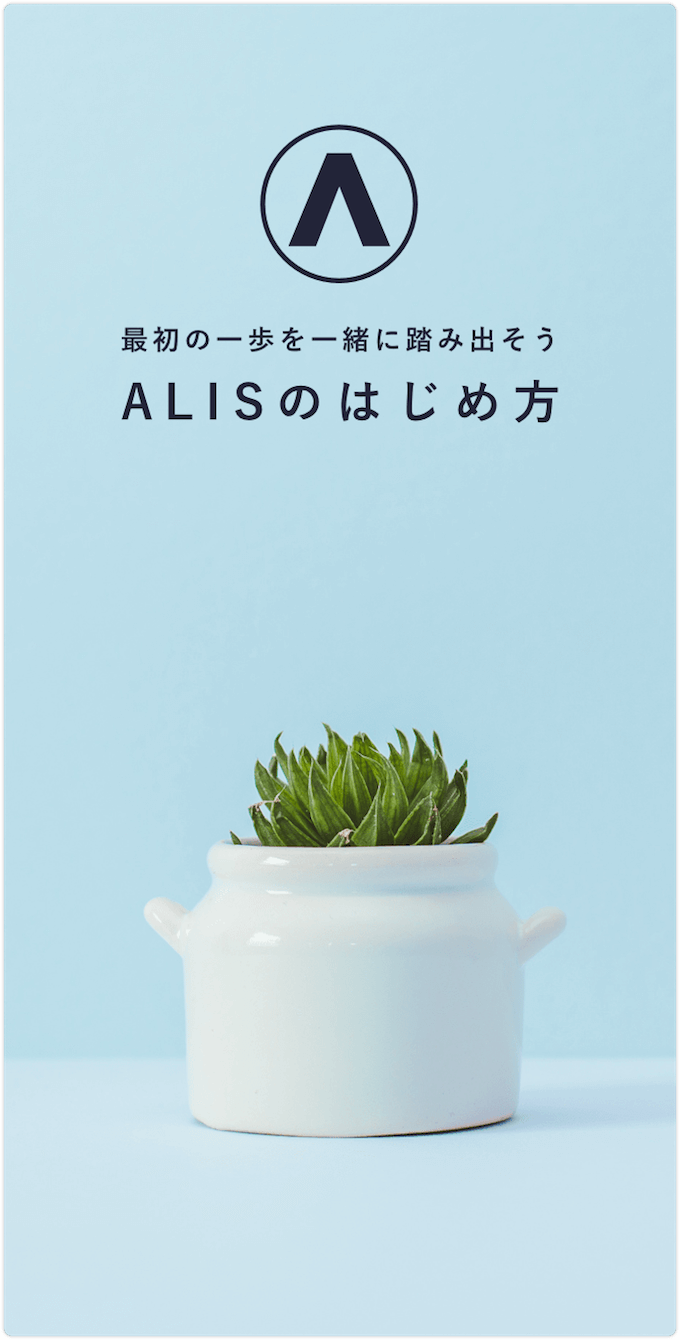
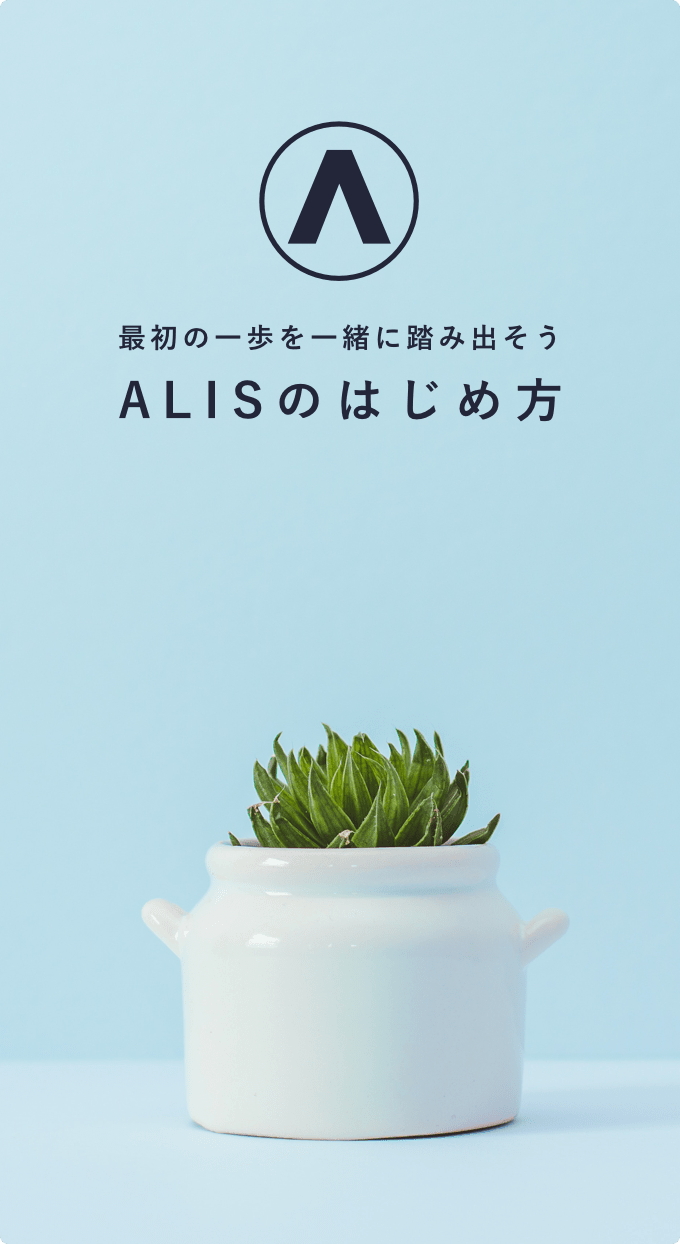
Update design of RecommendedArticleCard for paid article

diff --git a/app/components/organisms/RecommendedArticleCard.vue b/app/components/organisms/RecommendedArticleCard.vue
@@ -3,12 +3,6 @@
     class="recommended-article-card"
     :to="`/${article.user_id}/articles/${article.article_id}`"
   >
-    <span class="topic">
-      {{ topicDisplayName }}
-    </span>
-    <h2 class="title">
-      {{ decodedTitle }}
-    </h2>
     <div class="eye-catch-image-box">
       <img
         v-if="article.eye_catch_url === null || article.eye_catch_url === undefined"
@@ -17,14 +11,17 @@
       >
       <img v-else class="eye-catch-image" :src="article.eye_catch_url">
     </div>
+    <span class="topic">
+      {{ topicDisplayName }}
+    </span>
+    <span v-if="!isPaidArticle" class="paid-article">
+      有料
+    </span>
+    <h2 class="title">
+      {{ decodedTitle }}
+    </h2>
     <no-ssr>
       <nuxt-link :to="`/users/${article.user_id}`" class="article-data-box">
-        <img
-          v-if="article.userInfo.icon_image_url !== undefined"
-          class="profile-icon"
-          :src="article.userInfo.icon_image_url"
-        >
-        <img v-else class="profile-icon" src="~assets/images/pc/common/icon_user_noimg.png">
         <span class="username">
           {{ decodedUsername }}
         </span>
@@ -77,6 +74,9 @@ export default {
       const alisToken = new BigNumber(stringTokenAmount).div(formatNumber)
       return alisToken > 999 ? (alisToken / 1000).toFixed(2, 1) + 'k' : alisToken.toFixed(2, 1)
     },
+    isPaidArticle() {
+      return !!this.article.price
+    },
     ...mapGetters('article', ['topics'])
   }
 }
@@ -86,36 +86,21 @@ export default {
 .recommended-article-card {
   @include cassette-shadow();
   border-radius: 4px;
-  height: 320px;
+  height: 296px;
   position: relative;
   text-decoration: none;
   width: 340px;
 }
 
-.topic,
 .eye-catch-image-box,
+.topic,
+.paid-article,
 .title,
 .article-data-box,
-.profile-icon,
 .username,
 .published-at,
 .token-amount {
   position: absolute;
-}
-
-.topic {
-  color: red;
-  height: 12px;
-  display: flex;
-  align-items: center;
-  color: #6e6e6e;
-  font-size: 12px;
-  font-weight: bold;
-  letter-spacing: 0.6px;
-  border-left: 2px solid #0086cc;
-  padding-left: 6px;
-  top: 20px;
-  left: 22px;
 }
 
 .eye-catch-image-box {
@@ -123,7 +108,7 @@ export default {
   overflow: hidden;
   width: 296px;
   height: 148px;
-  top: 44px;
+  top: 24px;
   left: 22px;
 
   .eye-catch-image {
@@ -132,6 +117,29 @@ export default {
     width: 100%;
     height: 100%;
   }
+}
+
+.topic,
+.paid-article {
+  text-align: center;
+  color: #9e9e9e;
+  font-size: 12px;
+  font-weight: bold;
+  letter-spacing: 0.6px;
+  padding: 4px;
+  box-sizing: border-box;
+  top: 152px;
+  background: #fff;
+}
+
+.topic {
+  width: 100px;
+  left: 26px;
+}
+
+.paid-article {
+  width: 40px;
+  left: 130px;
 }
 
 .title {
@@ -150,7 +158,7 @@ export default {
   overflow: hidden;
   text-decoration: none;
   text-overflow: ellipsis;
-  top: 204px;
+  top: 184px;
   width: 296px;
 }
 
@@ -158,16 +166,7 @@ export default {
   width: 220px;
   height: 46px;
   bottom: 14px;
-  left: 20px;
-}
-
-.profile-icon {
-  border-radius: 50%;
-  height: 36px;
-  width: 36px;
-  top: 5px;
-  left: 0;
-  object-fit: cover;
+  left: 22px;
 }
 
 .username,
@@ -180,18 +179,20 @@ export default {
 }
 
 .username {
-  left: 52px;
+  color: #9e9e9e;
+  font-weight: bold;
   overflow: hidden;
   text-decoration: none;
   text-overflow: ellipsis;
-  top: 8px;
+  top: 6px;
   white-space: nowrap;
   width: 168px;
 }
 
 .published-at {
-  bottom: 8px;
-  left: 52px;
+  color: #9e9e9e;
+  font-weight: bold;
+  bottom: 6px;
 }
 
 .token-amount {

diff --git a/app/components/organisms/HowToUseImage.vue b/app/components/organisms/HowToUseImage.vue
@@ -9,10 +9,10 @@
   background-color: #0086cc;
   background-position-x: -2px;
   background-position-y: -2px;
-  background-size: 344px 674px;
+  background-size: 344px 626px;
   border-radius: 4px;
   box-shadow: 0 0 16px 0 rgba(192, 192, 192, 0.7);
-  height: 670px;
+  height: 622px;
   transition: box-shadow 400ms ease;
   width: 340px;
 

diff --git a/app/components/pages/TopPage.vue b/app/components/pages/TopPage.vue
@@ -152,7 +152,7 @@ export default {
   min-height: 100vh;
 
   &.is-show-guide {
-    grid-template-rows: 100px minmax(50px, min-content) auto 700px minmax(100px, 1fr) 75px 75px;
+    grid-template-rows: 100px minmax(50px, min-content) auto 652px minmax(100px, 1fr) 75px 75px;
     /* prettier-ignore */
     grid-template-areas:
       "app-header app-header                 app-header                 app-header"